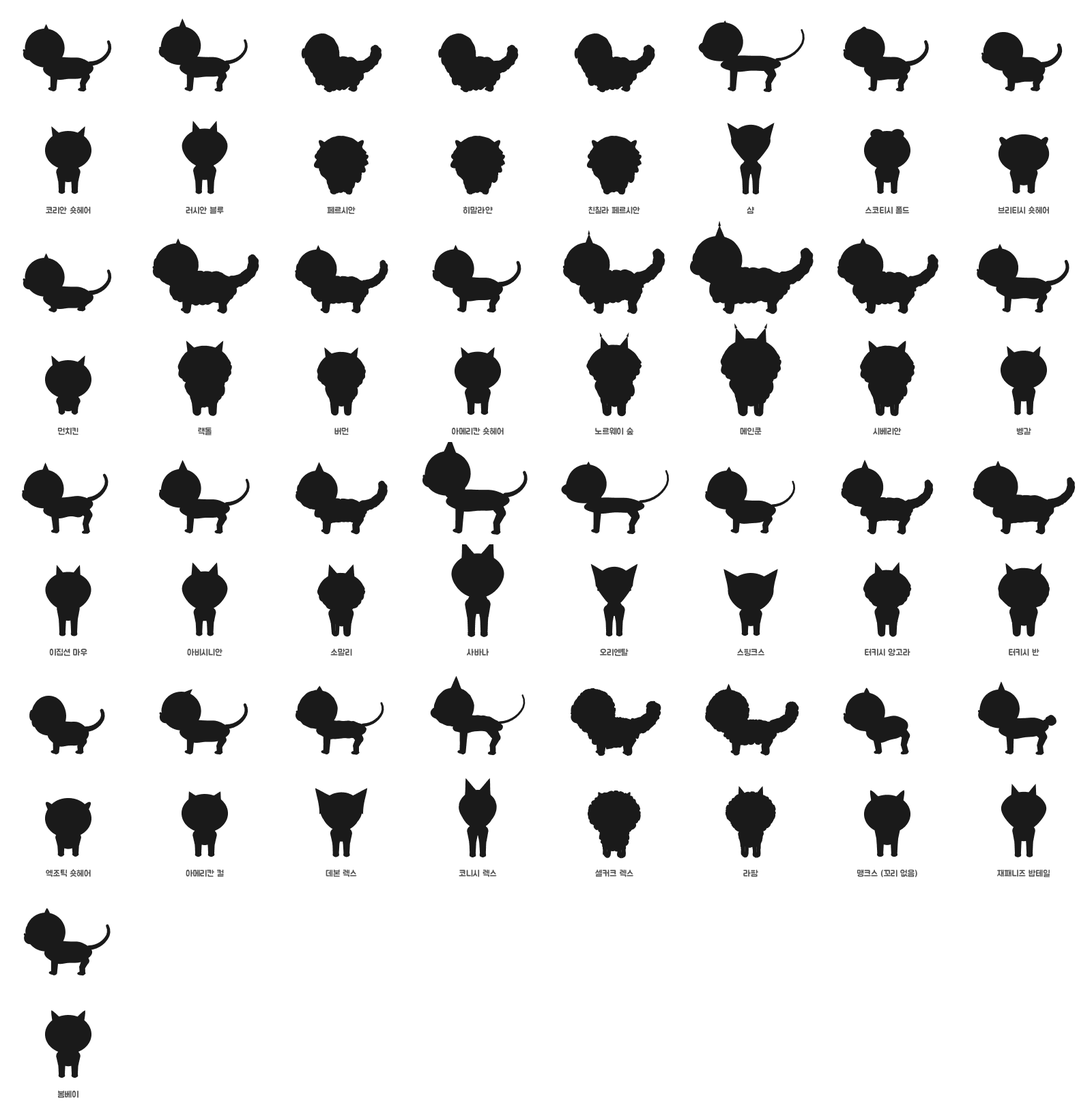
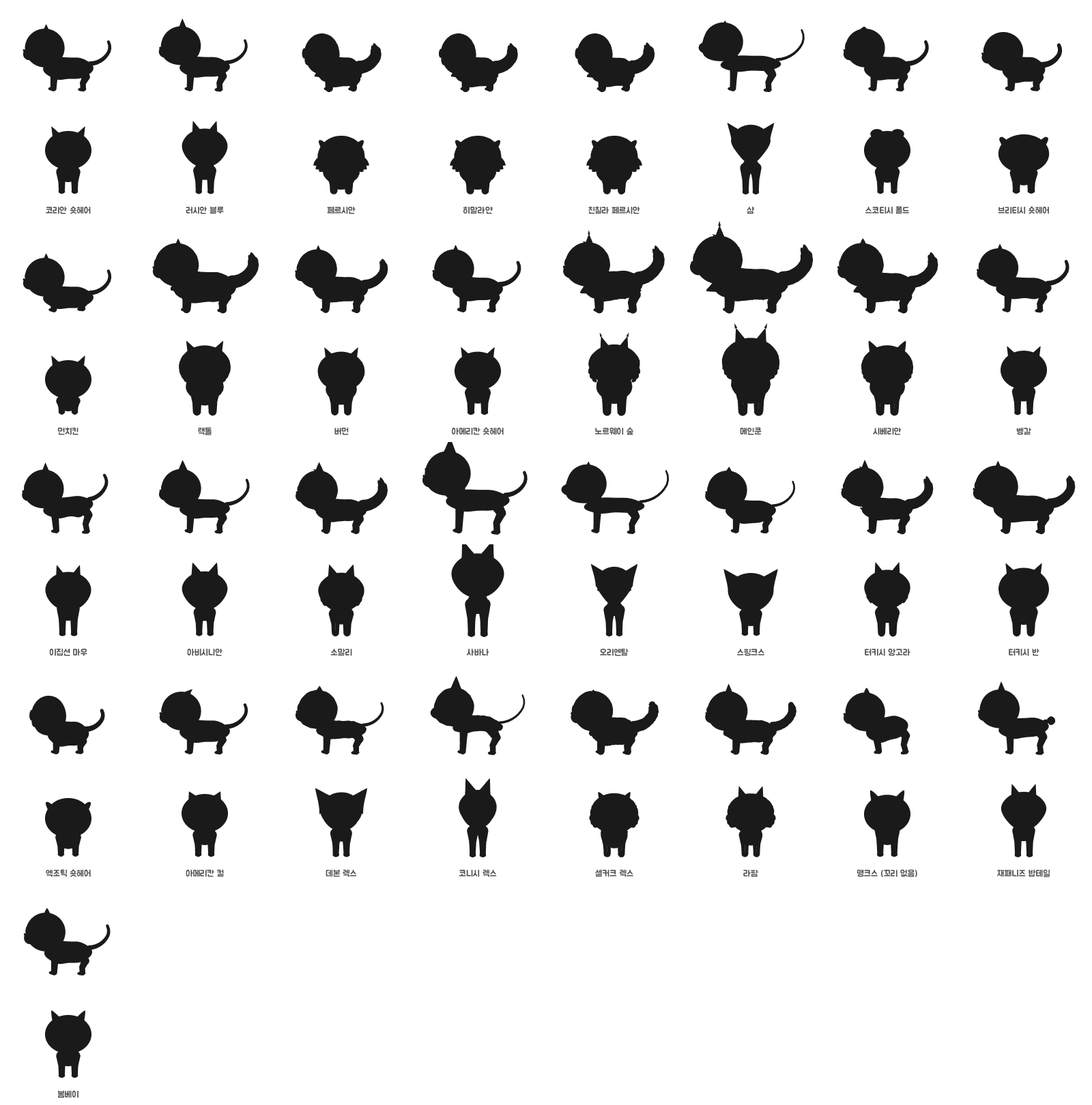
Cat catalog: cat-like long/curly fur and per-breed eyes
Fur: keep the body silhouette smooth (fine combed strands / small curls as
texture) and add soft curved tuft pieces only where cats carry long hair:
scalloped chest bib, cheek flicks (faceFluff), belly fringe, thigh trousers,
feathered tail, pale ear furnishings; curly coats get hooked ringlets.
Eyes: eyeShape (round/oval/almond/lemon), eyeTilt, eyeLid (kept level so
slanted eyes don't frown), eyeLiner and eyeSpace per breed, with the breed eye
colour visible in the lower half. Docs and images updated.

Claude-Session: https://claude.ai/code/session_015vjHDFNeuhZBMk9pB9WgeS

diff --git a/cat-island/prototype/3d/catgen.js b/cat-island/prototype/3d/catgen.js
@@ -156,14 +156,12 @@ const MAT_SKIN = new THREE.MeshStandardMaterial({ vertexColors: true, roughness:
 const MAT_GLOSS = new THREE.MeshStandardMaterial({ vertexColors: true, roughness: .35, metalness: 0 });
 
 // fur: {type:'short'|'long'|'curly'|'rex'|'none', amount}
-// opts.weight(v, n) -> 0..1   where long tufts / curls grow on this mesh (ruff, cheeks, belly, thigh backs ...)
-// opts.gravity               long tufts hang down a little (off for parts that rotate, like the tail)
-// Long and curly fur also store a per-vertex 'fluff' (0 gap .. 1 tuft tip) that the paint pass uses to
-// shade clumps: tips lighter, gaps darker, so the fur reads at toy scale.
+// opts.weight(v, n) -> 0..1   how much fur texture this area gets
+// Long and curly fur also store a per-vertex 'fluff' (0 dark .. 1 light) that the paint pass uses to
+// shade strands and curls so the coat has a fur feel without lumps.
 function furify(geo, fur, k = 0, opts = {}) {
   const pos = geo.attributes.position, v = new THREE.Vector3(), n = new THREE.Vector3();
-  const weight = opts.weight || (() => 1), gravity = opts.gravity ?? true;
-  const fq = opts.freq || 1, st = opts.stretch ?? 1.45;   // tuft size (higher = smaller) and vertical comb stretch
+  const weight = opts.weight || (() => 1);
   geo.computeVertexNormals();
   const nor = geo.attributes.normal;
   const tufted = fur.type === 'long' || fur.type === 'curly';
@@ -172,18 +170,17 @@ function furify(geo, fur, k = 0, opts = {}) {
     v.fromBufferAttribute(pos, i); n.fromBufferAttribute(nor, i);
     let off = 0;
     if (fur.type === 'long') {
-      // pointed clumps; cells are stretched vertically so tufts look combed downwards
-      const [d, d2] = worley2(v.x * 4.6 * fq + k, v.y * 4.6 * fq / st, v.z * 4.6 * fq);
-      const t = sstep(.85, .05, d) * sstep(0, .22, d2 - d), wgt = weight(v, n);   // soft cone, parted between clumps
-      off = fur.amount * wgt * (.03 + .08 * t);
-      fluff[i] = .25 + .75 * t * Math.min(1, wgt * 1.4);
-      if (gravity) v.y -= fur.amount * wgt * .04 * t * sstep(.4, -.6, n.y);
+      // fine combed strands: a smooth silhouette (cats read as cats by their outline), streaks for texture.
+      // The long-hair *shape* comes from the tuft pieces added in addTufts().
+      const t = vnoise(v.x * 9 + k, v.y * 26, v.z * 9), wgt = weight(v, n);
+      off = fur.amount * wgt * (.008 + .012 * t);
+      fluff[i] = .55 + .45 * t;
     } else if (fur.type === 'curly') {
-      // round puffs (AC sheep wool): sqrt profile gives a cauliflower outline
-      const [d, d2] = worley2(v.x * 7 + k, v.y * 7, v.z * 7);
-      const t = Math.sqrt(Math.max(0, 1 - d * d / .75)) * sstep(0, .3, d2 - d), wgt = weight(v, n);
-      off = fur.amount * wgt * (.035 + .085 * t);
-      fluff[i] = .35 + .65 * t;
+      // small tight curls as surface texture; the visible ringlets are hooked tufts (addTufts)
+      const [d, d2] = worley2(v.x * 17 + k, v.y * 17, v.z * 17);
+      const t = Math.sqrt(Math.max(0, 1 - d * d / .75)) * sstep(0, .25, d2 - d), wgt = weight(v, n);
+      off = fur.amount * wgt * (.01 + .02 * t);
+      fluff[i] = .5 + .5 * t;
     }
     else if (fur.type === 'rex') off = fur.amount * .008 * Math.sin(v.z * 30 + v.y * 14 + 6 * vnoise(v.x * 5 + k, v.y * 5, v.z * 5)) * (.4 + .6 * vnoise(v.x * 9, v.y * 9 + k, v.z * 9));   // soft broken waves, not rings
     v.addScaledVector(n, off);
@@ -207,6 +204,40 @@ function capsuleY(r0, r1, len, seg = 28) {
   for (let i = 0; i <= N; i++) { const a = Math.PI / 2 * i / N; pts.push(new THREE.Vector2(r0 * Math.cos(a), r0 * Math.sin(a))); }
   return new THREE.LatheGeometry(pts, seg);
 }
+// A single stylised fur tuft: a soft cone along +y that bends towards +z (bend) and, for curly coats,
+// hooks over into a ringlet (curl). 'fluff' runs 0 at the root to 1 at the tip (tip painted lighter).
+function tuftGeo(len, r0, bend = .3, curl = 0) {
+  const prof = [];
+  for (let i = 0; i <= 12; i++) {
+    const t = i / 12, r = r0 * Math.pow(1 - t, .55) * (1 + .3 * Math.sin(Math.PI * t * .8)) * Math.sqrt(Math.min(1, (1 - t) * 6));   // plump, soft tip
+    prof.push(new THREE.Vector2(Math.max(1e-4, r), t * len));
+  }
+  const g = new THREE.LatheGeometry(prof, 14);
+  const pos = g.attributes.position, fl = new Float32Array(pos.count);
+  for (let i = 0; i < pos.count; i++) {
+    let x = pos.getX(i), y = pos.getY(i), z = pos.getZ(i);
+    const t = y / len;
+    z += bend * len * t * t;                                  // gentle sweep
+    if (curl) {                                               // ringlet: roll the outer half around x
+      const a = curl * sstep(.35, 1, t), cy = len * .45, cz = bend * len * .2 + len * .18;
+      const yy = y - cy, zz = z - cz;
+      y = cy + yy * Math.cos(a) - zz * Math.sin(a); z = cz + yy * Math.sin(a) + zz * Math.cos(a);
+    }
+    pos.setXYZ(i, x, y, z); fl[i] = .5 + .5 * t;
+  }
+  g.setAttribute('fluff', new THREE.BufferAttribute(fl, 1));
+  g.computeVertexNormals();
+  return g;
+}
+// put a tuft at `at` (parent space) growing along `dir`, sweeping towards `toward`
+function placeTuft(parent, geo, at, dir, toward, part, info, mat) {
+  const Y = dir.clone().normalize(), Z = toward.clone().addScaledVector(Y, -toward.dot(Y)).normalize(), X = new THREE.Vector3().crossVectors(Y, Z);
+  const m = mk(geo, part, info, mat);
+  m.matrix.makeBasis(X, Y, Z).setPosition(at); m.matrixAutoUpdate = false;
+  parent.add(m);
+  return m;
+}
+
 function mk(geo, part, info, mat = MAT) {
   const m = new THREE.Mesh(geo, mat);
   m.castShadow = m.receiveShadow = true;
@@ -218,7 +249,7 @@ function mk(geo, part, info, mat = MAT) {
 export const SHAPE_DEFAULT = {
   size: 1, headSize: 1.5, headW: 1.08, faceFlat: 0, cheek: 0, muzzleLen: 1,
   ear: 'upright', earSize: 1, earTuft: 0,
-  eyeSize: 1, eyeShape: 'round',
+  eyeSize: 1, eyeShape: 'round', eyeTilt: 0, eyeLid: 0, eyeLiner: 0, eyeSpace: 1,
   bodyLen: 1, bodyBulk: 1, legLen: 1, legBulk: 1,
   fur: 'short', furAmount: 1, ruff: 0,
   faceFluff: .55,    // long fur on the cheeks/chin: Persian types 1.2, semi-longhairs (Maine Coon ...) keep a short face
@@ -282,14 +313,12 @@ export function buildCat(shapeIn, coatSpec) {
       pos.setXYZ(i, xx, yy, z * .9 * BL);
     }
     g.computeVertexNormals();
-    // long fur: light on the back, heavy on the chest and belly fringe
-    const wBody = (v, n) => .45 + .55 * sstep(.1, -.7, n.y) + .35 * sstep(.2, .8, v.z / (.9 * BL));
-    if (!hairless) furify(g, fur, 1, { weight: wBody });
+    if (!hairless) furify(g, fur, 1);
     body.add(mk(g, 'body', 'bodyNorm', bodyMat));
   }
   if (s.ruff) {
     const g = ellipsoid(1, .4 * B * fluffy, .36, .3, 96); g.translate(0, .1, .6 * BL);
-    furify(g, { type: 'long', amount: 1.5 * s.ruff }, 9, { weight: (v, n) => .55 + .45 * sstep(-.2, .8, n.z) });
+    furify(g, { type: s.fur === 'curly' ? 'curly' : 'long', amount: s.ruff }, 9);
     body.add(mk(g, 'body', 'bodyNorm'));
   }
 
@@ -310,9 +339,7 @@ export function buildCat(shapeIn, coatSpec) {
       const j = new THREE.Group(); parent.add(j);
       const g = capsuleY(r0 * thick, r1 * thick, len);
       const t0 = acc / total, t1 = (acc + len) / total;
-      const pants = kind === 'hind' && acc === 0;
-      if (!hairless) furify(g, { ...fur, amount: fur.amount * (s.fur === 'curly' ? .7 : .5) }, side + acc,
-        { weight: pants ? (v, n) => .4 + 1.2 * sstep(.1, -.8, n.z) * sstep(-len, -len * .2, v.y) : () => .55 });
+      if (!hairless) furify(g, { ...fur, amount: fur.amount * .6 }, side + acc);
       j.add(mk(g, 'leg', { kind, t0, t1, len }, bodyMat));
       chain.push(j);
       const next = new THREE.Group(); next.position.y = -len; j.add(next);
@@ -330,7 +357,7 @@ export function buildCat(shapeIn, coatSpec) {
   if (tailN) {
     let parent = new THREE.Group(); parent.position.set(0, .16, -.78 * BL); body.add(parent);
     const segLen = (s.tail === 'bob' ? .06 : .1) * s.tailLen;
-    const plume = s.tailFluff ? 1 + s.tailFluff * .9 : 1;
+    const plume = s.tailFluff ? 1 + s.tailFluff * (s.fur === 'long' ? 1.2 : .9) : 1;
     for (let i = 0; i < tailN; i++) {
       const j = new THREE.Group(); parent.add(j);
       const rad = k => (plume > 1 ? .068 * plume * (1 - .22 * k) * (k > .85 ? Math.sqrt(Math.max(.15, 1 - ((k - .85) / .2) ** 2)) : 1) : .068 - .026 * k) * (s.fur === 'curly' ? 1.2 : 1);
@@ -338,7 +365,7 @@ export function buildCat(shapeIn, coatSpec) {
       const g = capsuleY(r0, r1, segLen, 24);
       g.rotateX(Math.PI);                    // grow backwards/upwards along +y of the joint
       if (s.fur === 'curly') furify(g, { type: 'curly', amount: .9 }, i * 3);
-      else if (s.fur === 'long') furify(g, { type: 'long', amount: .45 * s.furAmount }, i * 3, { gravity: false, freq: 1.3 });
+      else if (s.fur === 'long') furify(g, { type: 'long', amount: s.furAmount }, i * 3);
       j.add(mk(g, 'tail', { t0: i / tailN, t1: (i + 1) / tailN, len: segLen }, bodyMat));
       const next = new THREE.Group(); next.position.y = segLen; j.add(next);
       rig.tail.push(j); parent = next;
@@ -353,7 +380,7 @@ export function buildCat(shapeIn, coatSpec) {
   const neck = new THREE.Group(); neck.position.set(0, .2, .62 * BL); body.add(neck); rig.neck = neck;
   {
     const g = ellipsoid(1, .25 * B * fluffy * (1 - (s.neckLen - 1) * .3), .27 * B * fluffy * s.neckLen, .28, 64); g.translate(0, .1 * s.neckLen, .06);
-    if (!hairless) furify(g, fur, 5, { weight: (v, n) => .5 + .5 * sstep(0, .8, n.z) });
+    if (!hairless) furify(g, fur, 5);
     neck.add(mk(g, 'body', 'bodyNorm', bodyMat));
   }
   const head = new THREE.Group(); head.position.set(0, .26 * s.headSize + (s.neckLen - 1) * .3, .16 * s.headSize + (s.neckLen - 1) * .12); neck.add(head); rig.head = head;
@@ -377,13 +404,9 @@ export function buildCat(shapeIn, coatSpec) {
       }
       g.computeVertexNormals();
     }
-    // long: lion-like cheek and chin fluff, the face itself stays clean (AC faces are smooth)
-    // curly: puffs everywhere except the front of the face
-    const wHead = s.fur === 'curly'
-      ? (v, n) => 1 - .8 * sstep(.25, .8, n.z)
-      : (v, n) => .15 + 1.5 * sstep(.25, .8, Math.abs(n.x)) * sstep(.6, -.3, n.y) * (1 - .75 * sstep(.45, .9, n.z)) + .6 * sstep(-.3, -.9, n.y);
-    // head tufts point sideways (no drop, no vertical comb), otherwise they hang like mop strands
-    if (!hairless) furify(g, { ...fur, amount: fur.amount * (s.fur === 'long' ? s.faceFluff * .8 : .8) }, 11, { weight: wHead, gravity: false, stretch: 1, freq: 1.25 });
+    // fur texture stays off the front of the face (AC faces are smooth); cheek tufts come from addTufts()
+    const wHead = (v, n) => 1 - .85 * sstep(.25, .8, n.z);
+    if (!hairless) furify(g, { ...fur, amount: fur.amount * .8 }, 11, { weight: wHead });
     head.add(mk(g, 'head', 'headDir', bodyMat));
     if (s.cheek) for (const x of [-1, 1]) {
       const c = ellipsoid(HS * .38, 1, .8, .85, 48); c.translate(x * HS * .5 * s.headW, -HS * .3, HS * (.36 - .06 * s.faceFlat));   // cheeks follow the flattened face
@@ -391,6 +414,7 @@ export function buildCat(shapeIn, coatSpec) {
     }
   }
   // ears
+  const earGroups = [];
   for (const x of [-1, 1]) {
     const es = Math.pow(s.earSize, .65) * HS / .42 * .82 * (s.ear === 'large' ? 1.15 : 1);
     // one cone per ear (base sunk into the skull); the pink inner ear is painted on its front face
@@ -417,6 +441,7 @@ export function buildCat(shapeIn, coatSpec) {
       const t = new THREE.ConeGeometry(.022 * es, .09 * es, 8); t.translate(0, .3 * es, 0);
       ear.add(mk(t, 'tuft', null));
     }
+    ear.userData.x = x; ear.userData.es = es; earGroups.push(ear);
     head.add(ear);
   }
   // muzzle, nose, eyes, blush, whisker pads
@@ -433,28 +458,90 @@ export function buildCat(shapeIn, coatSpec) {
       m.rotateZ(Math.PI); m.translate(x * HS * .055, -HS * .2 + flat * HS * .1, HS * (.93 - flat * .14));
       head.add(mk(m, 'mouth', null, MAT_GLOSS));
     }
+    // eyes: the same glossy AC eye everywhere, but each breed sets its shape and expression
+    //   eyeShape  round (Persian, British) | oval (Maine Coon, Ragdoll) | almond (Siamese, Abyssinian) | lemon (Sphynx)
+    //   eyeTilt   outer corner raised (radians)        eyeLid   upper lid in coat colour -> hooded / calm look
+    //   eyeLiner  dark rim (chinchilla, Mau, Abyssinian) eyeSpace wide-set (Persian) .. close-set (Siamese)
+    const [sx, sy, sharp] = { round: [.84, 1.04, 0], oval: [.9, .86, .08], almond: [1, .72, .32], lemon: [1.04, .76, .48] }[s.eyeShape] || [.84, 1.04, 0];
+    const sz = .42;
     for (const x of [-1, 1]) {
-      // big, round, glossy dark eyes; the breed's eye colour only glows softly at the bottom
-      const er = HS * .2 * s.eyeSize;
-      const furPush = s.fur === 'curly' ? .07 : s.fur === 'long' ? .045 : 0;      // keep eyes in front of fluffy fur
-      const ex = x * HS * .37, ey = HS * .02, ez = HS * (.84 - flat * .05 + furPush);
-      const sx = s.eyeShape === 'almond' ? .9 : .82, sy = 1.04, sz = .42;
-      const ig = ellipsoid(er, sx, sy, sz, 48);
-      ig.translate(ex, ey, ez);
-      head.add(mk(ig, 'eye', { cy: ey, er }, MAT_GLOSS));
-      // highlights: flat discs lying on the eye surface, same light direction (upper-left) for both eyes
-      for (const [dx, dy, rr] of [[-.3, .36, .3], [.3, -.36, .12]]) {
-        const hx = dx * er, hy = dy * er;
-        const k = 1 - (hx / (er * sx)) ** 2 - (hy / (er * sy)) ** 2;
-        const hz = ez + er * sz * Math.sqrt(Math.max(0, k)) + er * .015;
-        const disc = new THREE.Mesh(new THREE.CircleGeometry(er * rr, 24), new THREE.MeshBasicMaterial({ color: '#ffffff' }));
-        disc.position.set(ex + hx, ey + hy, hz);
-        disc.lookAt(ex + hx * 1.6, ey + hy * 1.6, hz + er);                    // follow the eye's curvature
-        head.add(disc);
+      const er = HS * .2 * s.eyeSize * (1 + .55 * (1.04 - sy));   // narrow eyes get wider/taller overall: same cuteness, different shape
+      const furPush = s.fur === 'curly' ? .03 : s.fur === 'long' ? .02 : 0;      // keep eyes in front of the fur texture
+      const ex = x * HS * .37 * s.eyeSpace, ey = HS * .02, ez = HS * (.84 - flat * .05 + furPush);
+      const eye = new THREE.Group(); eye.position.set(ex, ey, ez); eye.rotation.z = x * s.eyeTilt; head.add(eye);
+      const pinch = g => {                    // almond / lemon: pinch the inner and outer corners
+        const q = g.attributes.position;
+        for (let i = 0; i < q.count; i++) { const u = q.getX(i) / (er * sx * 1.1); q.setY(i, q.getY(i) * (1 - sharp * u * u)); }
+        g.computeVertexNormals(); return g;
+      };
+      eye.add(mk(pinch(ellipsoid(er, sx, sy, sz, 48)), 'eye', { cy: 0, er: er * sy }, MAT_GLOSS));
+      // upper lid: a cap of the eye shape in coat colour, cut by a straight lid line
+      const lidY = 1 - 2 * s.eyeLid;
+      if (s.eyeLid > 0) {
+        const lg = new THREE.SphereGeometry(er * 1.06, 40, 18, 0, Math.PI * 2, 0, Math.acos(lidY));
+        lg.scale(sx, sy, sz * 1.3); pinch(lg);
+        // keep the lid line level (inner end a touch higher) even on a slanted eye; a lid that follows the
+        // slant drops at the inner corner and reads as a frown
+        lg.rotateZ(-x * s.eyeTilt * 1.3);
+        eye.add(mk(lg, 'head', 'headDir', bodyMat));
+      }
+      if (s.eyeLiner) {
+        const lr = new THREE.TorusGeometry(er, er * .085, 8, 64); lr.scale(sx * 1.03, sy * 1.03, .6);
+        eye.add(mk(pinch(lr), 'liner', null, MAT_GLOSS));
+      }
+      // highlights: flat discs on the eye surface; same light direction (upper-left) for both eyes,
+      // so the offsets are given in head space and rotated into the tilted eye; kept below the lid
+      const cs = Math.cos(-x * s.eyeTilt), sn = Math.sin(-x * s.eyeTilt), hsz = Math.min(1, sy + .1);
+      for (const [dx, dy, rr] of [[-.3, .34, .3], [.3, -.34, .12]]) {
+        let hx = (dx * cs - dy * sn) * er * sx, hy = (dx * sn + dy * cs) * er * sy;
+        hy = Math.min(hy, (lidY * sy - .26) * er);
+        const y0 = hy / (1 - sharp * (hx / (er * sx * 1.1)) ** 2);
+        const k = 1 - (hx / (er * sx)) ** 2 - (y0 / (er * sy)) ** 2;
+        const hz = er * sz * Math.sqrt(Math.max(0, k)) + er * .015;
+        const disc = new THREE.Mesh(new THREE.CircleGeometry(er * rr * hsz, 24), new THREE.MeshBasicMaterial({ color: '#ffffff' }));
+        disc.position.set(hx, hy, hz);
+        disc.quaternion.setFromUnitVectors(new THREE.Vector3(0, 0, 1), new THREE.Vector3(hx / sx ** 2, y0 / sy ** 2, hz / sz ** 2).normalize());
+        eye.add(disc);
       }
       const bl = new THREE.Mesh(new THREE.SphereGeometry(HS * .13, 16, 12), new THREE.MeshStandardMaterial({ color: '#f7a3b6', roughness: 1, transparent: true, opacity: .6 }));
       bl.scale.set(1.35, .55, .3); bl.position.set(x * HS * .62, -HS * .2, HS * .72); head.add(bl);
     }
+  }
+
+  // ---------- long / curly fur: tufts where cats actually carry long hair
+  // (cartoon cats are drawn the same way: a zigzag chest bib, cheek flicks, trousers, a plumed tail)
+  if (s.fur === 'long' || s.fur === 'curly') {
+    const curly = s.fur === 'curly', amt = curly ? .8 : s.furAmount;
+    const ruff = Math.max(s.ruff, curly ? .7 : .4) * amt;
+    const curl = curly ? 2.6 : 0, V = (x, y, z) => new THREE.Vector3(x, y, z);
+    const T = (len, r, bend = .3) => tuftGeo(len, r, bend, curl);
+    // chest bib: a row of tufts hanging from the front of the collar, longest in the middle
+    // (wide, overlapping, lying on the collar: a scalloped bib, not a row of spikes)
+    for (let j = -2; j <= 2; j++) {
+      const f = j / 2, len = (.22 - .06 * Math.abs(f)) * ruff;
+      placeTuft(body, T(len, .12, .6), V(f * .19 * B * fluffy, .02 - .04 * Math.abs(f), .78 * BL + .04 * (1 - Math.abs(f))),
+        V(f * .45, -1, .55), V(0, 0, 1), 'body', 'bodyNorm', bodyMat);
+    }
+    // belly fringe and 'trousers' on the back of the thighs
+    for (const x of [-1, 1]) {
+      for (const z of [-.25, .02, .28]) placeTuft(body, T(.14 * amt, .07, .3), V(x * .15 * B * fluffy, -.2 * B * fluffy, z * BL), V(x * .25, -1, -.2), V(0, 0, -1), 'body', 'bodyNorm', bodyMat);
+      const thigh = rig.legs[x < 0 ? 'hindL' : 'hindR'].chain[0];
+      for (const [y, k] of [[-.35, 1], [-.65, .8]]) placeTuft(thigh, T(.17 * amt * k, .075, .35), V(x * .03, hTh * y, -.09), V(x * .2, -.5, -1), V(0, -1, 0), 'body', 'bodyNorm', bodyMat);
+    }
+    // cheek flicks: three per side from the lower cheek, pointing out and down
+    const ff = (curly ? .9 : s.faceFluff) * amt;
+    for (const x of [-1, 1]) for (const [dy, dz, k] of [[-.18, .42, 1], [-.42, .32, .85], [-.64, .2, .65]]) {
+      const d = V(x * .88, dy, dz).normalize();
+      const at = V(d.x * HS * s.headW, d.y * HS * .9, d.z * HS * .9).multiplyScalar(.93);
+      placeTuft(head, T(HS * .4 * ff * k, HS * .17, .25), at, V(x, -.35 - .5 * (1 - k), .15), V(0, -1, 0), 'head', 'headDir', bodyMat);
+    }
+    // feathered tail: tufts on both sides of the outer tail segments
+    for (let i = 3; i < rig.tail.length; i++) for (const x of [-1, 1]) {
+      const k = (i - 2) / (rig.tail.length - 2);
+      placeTuft(rig.tail[i], T((.1 + .1 * k) * Math.max(.6, s.tailFluff), .075, .5), V(x * .04, .05, 0), V(x, .7, .1), V(0, 1, 0), 'tail', { t0: (i + .5) / rig.tail.length, t1: (i + .5) / rig.tail.length, len: 0 }, bodyMat);
+    }
+    // ear furnishings: pale wisps from the inner ear
+    if (!curly && s.ear !== 'fold') for (const ear of earGroups) placeTuft(ear, tuftGeo(.13 * ear.userData.es, .025 * ear.userData.es, .4, 0), V(0, .02, .03), V(-ear.userData.x * .25, 1, .55), V(0, 0, 1), 'furnish', null);
   }
 
   // ---------- paint every mesh in rest pose, using root-space positions
@@ -464,7 +551,7 @@ export function buildCat(shapeIn, coatSpec) {
   const v = new THREE.Vector3(), w = new THREE.Vector3();
   root.traverse(o => {
     if (!o.isMesh || !o.userData.part) return;
-    const part = o.userData.part === 'tuft' ? 'ear' : o.userData.part;
+    const part = ['tuft', 'furnish', 'liner'].includes(o.userData.part) ? 'ear' : o.userData.part;
     const pos = o.geometry.attributes.position, col = new Float32Array(pos.count * 3);
     const fl = o.geometry.attributes.fluff;
     const m = new THREE.Matrix4().multiplyMatrices(inv, o.matrixWorld);
@@ -474,6 +561,8 @@ export function buildCat(shapeIn, coatSpec) {
       const p = w.copy(v).applyMatrix4(m).clone();
       let info = o.userData.info, c;
       if (o.userData.part === 'tuft') c = colorAt('ear', p, { dir: new THREE.Vector3(0, 1, 0) }).multiplyScalar(.55);
+      else if (o.userData.part === 'furnish') c = C('#f5efe4');
+      else if (o.userData.part === 'liner') c = C('#2b2220');
       else if (o.userData.part === 'mouth') c = C('#3a2a24');
       else if (info && info.ear) {
         const y = (v.y - info.y0) / info.h, rr = Math.max(1e-4, info.r * (1 - y));
@@ -483,7 +572,7 @@ export function buildCat(shapeIn, coatSpec) {
       }
       else if (o.userData.part === 'eye') {
         const t = (v.y - info.cy) / info.er;
-        c = C('#271c18').lerp(colorAt('eye'), .5 * sstep(-.15, -.95, t));
+        c = C('#271c18').lerp(colorAt('eye'), .72 * sstep(.1, -.85, t));   // breed eye colour fills the lower half
       } else {
         if (info === 'bodyNorm') info = bodyNorm(p);
         else if (info === 'headDir') info = { dir: v.clone().applyMatrix4(mh).normalize() };
@@ -551,39 +640,39 @@ export function setPose(cat, mode = 'walk', phase = 0) {
 // ------------------------------------------------------------------ catalogue
 const SH = (o) => o;
 export const BREEDS = [
-  { id: 'korean_shorthair', ko: '코리안 숏헤어', shape: { earSet: 'mid' }, coat: { pattern: 'mackerel', base: '#a39d93', dark: '#57514a' } },
-  { id: 'russian_blue', ko: '러시안 블루', shape: { eyeShape: 'almond', earSize: 1.12, bodyBulk: .92, legLen: 1.08, wedge: .35, earSet: 'high', neckLen: 1.1, tailThick: .85 }, coat: { pattern: 'solid', base: '#8794a3', eye: '#5fae6a', lightMuzzle: false, nose: '#7d8794' } },
-  { id: 'persian', ko: '페르시안', shape: { faceFlat: 1, ear: 'small', fur: 'long', ruff: 1, tailFluff: 1, cheek: 1, eyeSize: 1.15, legLen: .78, bodyBulk: 1.15, earSet: 'low', earRound: .8, bodyLen: .82, neckLen: .75, tailThick: 1.2, tailLen: .85 , faceFluff: 1.2 }, coat: { pattern: 'solid', base: '#f4efe6', eye: '#d7902f' } },
-  { id: 'himalayan', ko: '히말라얀', shape: { faceFlat: 1, ear: 'small', fur: 'long', ruff: 1, tailFluff: 1, cheek: 1, legLen: .78, bodyBulk: 1.15, earSet: 'low', earRound: .8, bodyLen: .82, neckLen: .75, tailThick: 1.2, tailLen: .85 , faceFluff: 1.2 }, coat: { pattern: 'point', base: '#f2e8d8', point: '#6b4f40', eye: '#4f8fd8' } },
-  { id: 'chinchilla_persian', ko: '친칠라 페르시안', shape: { faceFlat: 1, ear: 'small', fur: 'long', ruff: 1.1, tailFluff: 1.1, cheek: 1, eyeSize: 1.18, legLen: .78, bodyBulk: 1.12, earSet: 'low', earRound: .8, bodyLen: .82, neckLen: .75, tailThick: 1.2, tailLen: .85, faceFluff: 1.2 }, coat: { pattern: 'shaded', base: '#f7f5f0', white: '#f8f6f2', dark: '#55565e', eye: '#3fae6a', nose: '#e0857f' } },
-  { id: 'siamese', ko: '샴', shape: { ear: 'large', earSize: 1.2, eyeShape: 'almond', bodyBulk: .78, legLen: 1.25, headW: .95, muzzleLen: 1.2, tailLen: 1.35, wedge: 1, earSet: 'low', earWide: 1.05, bodyLen: 1.2, tailThick: .65, neckLen: 1.2, tuck: .4 }, coat: { pattern: 'point', base: '#f1e6d2', point: '#4f3a30', eye: '#5aa6e0' } },
-  { id: 'scottish_fold', ko: '스코티시 폴드', shape: { ear: 'fold', eyeSize: 1.2, cheek: .6, bodyBulk: 1.05, earRound: .5, bodyLen: .92, tailThick: 1.1 }, coat: { pattern: 'mackerel', base: '#a9adb6', dark: '#686c74' } },
-  { id: 'british_shorthair', ko: '브리티시 숏헤어', shape: { cheek: 1, ear: 'small', bodyBulk: 1.15, headW: 1.18, eyeSize: 1.12, legBulk: 1.15, earRound: 1, earSet: 'low', bodyLen: .85, legLen: .9, neckLen: .8, tailThick: 1.3, tailLen: .9, chest: 1.15 }, coat: { pattern: 'solid', base: '#8a92a0', eye: '#e19a2b', lightMuzzle: false } },
-  { id: 'munchkin', ko: '먼치킨', shape: { legLen: .5 }, coat: { pattern: 'classic', base: '#e8b878', dark: '#b4703a' } },
-  { id: 'ragdoll', ko: '랙돌', shape: { fur: 'long', furAmount: .8, ruff: .8, tailFluff: 1, eyeSize: 1.1, bodyBulk: 1.1, size: 1.1, bodyLen: 1.12, tailThick: 1.1 }, coat: { pattern: 'mitted', base: '#f3ece2', point: '#6b5a52', eye: '#4f8fd8' } },
-  { id: 'birman', ko: '버먼', shape: { fur: 'long', furAmount: .7, ruff: .6, tailFluff: .8, bodyLen: 1.05 }, coat: { pattern: 'mitted', base: '#efe3cc', point: '#4e3a2f', eye: '#4f8fd8' } },
-  { id: 'american_shorthair', ko: '아메리칸 숏헤어', shape: { cheek: .5, bodyBulk: 1.05, legBulk: 1.1, muzzleW: 1.2, chest: 1.1, tailThick: 1.1 }, coat: { pattern: 'classic', base: '#c9c9c4', dark: '#3d3d3d' } },
-  { id: 'norwegian_forest', ko: '노르웨이 숲', shape: { fur: 'long', ruff: 1, tailFluff: 1.2, earTuft: 1, earSize: 1.1, size: 1.12, headTri: 1, earSet: 'high', rumpHigh: .12 }, coat: { pattern: 'mackerel', base: '#b8a68e', dark: '#6e5b45', eye: '#9db24a', whiteLevel: .25 } },
-  { id: 'maine_coon', ko: '메인쿤', shape: { fur: 'long', ruff: 1.2, tailFluff: 1.2, earTuft: 1, earSize: 1.25, bodyLen: 1.2, size: 1.22, muzzleLen: 1.2, muzzleW: 1.35, earSet: 'high', chest: 1.1 }, coat: { pattern: 'classic', base: '#8a6a4f', dark: '#3e2d22', whiteLevel: .2 } },
-  { id: 'siberian', ko: '시베리안', shape: { fur: 'long', ruff: 1, tailFluff: 1, cheek: .5, size: 1.1, earRound: .3, chest: 1.1 }, coat: { pattern: 'mackerel', base: '#c9c4bb', dark: '#5d5850', eye: '#9db24a' } },
-  { id: 'bengal', ko: '벵갈', shape: { bodyBulk: .95, eyeShape: 'almond', legLen: 1.08, pouch: .5, bodyLen: 1.1, chest: 1.1, tailThick: 1.1 }, coat: { pattern: 'spotted', base: '#d9a95c', dark: '#4a3322', eye: '#7cae3d' } },
-  { id: 'egyptian_mau', ko: '이집션 마우', shape: { bodyBulk: .9, legLen: 1.1, eyeSize: 1.15, pouch: 1, rumpHigh: .2, wedge: .25, earSet: 'high' }, coat: { pattern: 'spotted', base: '#d4d1c8', dark: '#3c3a36', eye: '#9cc04a', seed: 4 } },
-  { id: 'abyssinian', ko: '아비시니안', shape: { earSize: 1.3, eyeShape: 'almond', bodyBulk: .86, legLen: 1.1, wedge: .4, earSet: 'high', earWide: 1.1, tailLen: 1.1, tailThick: .85 }, coat: { pattern: 'ticked', base: '#c98a52', dark: '#7a4a28', eye: '#b8a03a' } },
-  { id: 'somali', ko: '소말리', shape: { earSize: 1.25, fur: 'long', furAmount: .6, tailFluff: 1.2, bodyBulk: .9, wedge: .35, earSet: 'high', earWide: 1.1 }, coat: { pattern: 'ticked', base: '#c47a45', dark: '#7a4a28', eye: '#b8a03a' } },
-  { id: 'savannah', ko: '사바나', shape: { ear: 'large', earSize: 1.45, legLen: 1.35, bodyBulk: .85, bodyLen: 1.1, size: 1.15, tailLen: .9, neckLen: 1.3, earSet: 'high', wedge: .3, tailThick: .9 }, coat: { pattern: 'spotted', base: '#d8b46f', dark: '#2c241c', eye: '#c9a227', seed: 7 } },
-  { id: 'oriental', ko: '오리엔탈', shape: { ear: 'large', earSize: 1.35, bodyBulk: .78, legLen: 1.25, headW: .9, muzzleLen: 1.3, eyeShape: 'almond', tailLen: 1.4, wedge: 1, earSet: 'low', earWide: 1.05, bodyLen: 1.2, tailThick: .6, neckLen: 1.2, tuck: .45 }, coat: { pattern: 'solid', base: '#3a3432', eye: '#7cae3d', lightMuzzle: false } },
-  { id: 'sphynx', ko: '스핑크스', shape: { ear: 'large', earSize: 1.55, fur: 'none', wrinkles: 1, bodyBulk: .9, eyeShape: 'almond', tailLen: 1.1, potBelly: 1, earSet: 'low', earWide: 1.15, wedge: .3, tailThick: .6, chest: 1.1 }, coat: { pattern: 'calico', base: '#efc4b6', second: '#b5a2a4', white: '#f6d6cc', whiteLevel: 0, eye: '#9cb84a', innerEar: '#eba8a0', seed: 3 } },
-  { id: 'turkish_angora', ko: '터키시 앙고라', shape: { fur: 'long', furAmount: .6, tailFluff: 1.2, earSize: 1.15, bodyBulk: .88, legLen: 1.08, wedge: .35, earSet: 'high', neckLen: 1.15, tailThick: .9 }, coat: { pattern: 'solid', base: '#fbf8f2', eye: '#7fb6ea' } },
-  { id: 'turkish_van', ko: '터키시 반', shape: { fur: 'long', furAmount: .4, tailFluff: .8, size: 1.08, bodyLen: 1.1, chest: 1.1 }, coat: { pattern: 'van', base: '#d9853c' } },
-  { id: 'exotic_shorthair', ko: '엑조틱 숏헤어', shape: { faceFlat: 1, ear: 'small', cheek: 1, eyeSize: 1.2, bodyBulk: 1.12, legLen: .85, earSet: 'low', earRound: .8, bodyLen: .82, neckLen: .75, tailThick: 1.2, tailLen: .85 }, coat: { pattern: 'classic', base: '#e2a35e', dark: '#b06a2d', eye: '#d7902f' } },
-  { id: 'american_curl', ko: '아메리칸 컬', shape: { ear: 'curl', earSize: 1.15 }, coat: { pattern: 'bicolor', base: '#55504c' } },
-  { id: 'devon_rex', ko: '데본 렉스', shape: { ear: 'large', earSize: 1.6, eyeSize: 1.25, headW: 1.0, bodyBulk: .82, fur: 'rex', legLen: 1.1, earSet: 'low', earWide: 1.2, wedge: .4, tailThick: .7 }, coat: { pattern: 'solid', base: '#cdbfae', eye: '#9cb84a' } },
-  { id: 'cornish_rex', ko: '코니시 렉스', shape: { ear: 'large', earSize: 1.45, bodyBulk: .78, legLen: 1.25, fur: 'rex', headW: .9, muzzleLen: 1.2, tailLen: 1.25, backArch: 1, tuck: 1, wedge: .5, tailThick: .55, earSet: 'high', chest: 1.15 }, coat: { pattern: 'bicolor', base: '#7d6a62', whiteLevel: .5 } },
-  { id: 'selkirk_rex', ko: '셀커크 렉스', shape: { fur: 'curly', furAmount: 1.1, cheek: .8, bodyBulk: 1.1, ear: 'small', eyeSize: 1.15, tailFluff: .6, earRound: .5, bodyLen: .9, tailThick: 1.2 }, coat: { pattern: 'calico', base: '#3b3735', second: '#d98a43', whiteLevel: .5, seed: 6 } },
-  { id: 'laperm', ko: '라팜', shape: { fur: 'curly', furAmount: .8, earSize: 1.15, bodyBulk: .9, tailFluff: .5, wedge: .3, earSet: 'high' }, coat: { pattern: 'tortie', base: '#3a2e29', second: '#c4773a', seed: 2 } },
-  { id: 'manx', ko: '맹크스 (꼬리 없음)', shape: { tail: 'none', bodyBulk: 1.08, bodyLen: .85, legLen: 1.0, rumpHigh: .3, earRound: .4 }, coat: { pattern: 'mackerel', base: '#bfa486', dark: '#6e5640' } },
-  { id: 'japanese_bobtail', ko: '재패니즈 밥테일', shape: { tail: 'bob', earSize: 1.15, bodyBulk: .9, legLen: 1.15, headTri: 1, earSet: 'high', rumpHigh: .1 }, coat: { pattern: 'calico', base: '#2f2c2c', second: '#df8d3d', whiteLevel: .6, seed: 9 } },
-  { id: 'bombay', ko: '봄베이', shape: { eyeSize: 1.2, bodyBulk: 1.0, bodyLen: .95, earRound: .3, chest: 1.1 }, coat: { pattern: 'solid', base: '#232125', eye: '#d9a52c', lightMuzzle: false, nose: '#2d2a2e' } },
+  { id: 'korean_shorthair', ko: '코리안 숏헤어', shape: { earSet: 'mid', eyeShape: 'round', eyeTilt: .06 }, coat: { pattern: 'mackerel', base: '#a39d93', dark: '#57514a' } },
+  { id: 'russian_blue', ko: '러시안 블루', shape: { eyeShape: 'oval', earSize: 1.12, bodyBulk: .92, legLen: 1.08, wedge: .35, earSet: 'high', neckLen: 1.1, tailThick: .85, eyeTilt: .12, eyeSpace: 1.06 }, coat: { pattern: 'solid', base: '#8794a3', eye: '#5fae6a', lightMuzzle: false, nose: '#7d8794' } },
+  { id: 'persian', ko: '페르시안', shape: { faceFlat: 1, ear: 'small', fur: 'long', ruff: 1, tailFluff: 1, cheek: 1, eyeSize: 1.15, legLen: .78, bodyBulk: 1.15, earSet: 'low', earRound: .8, bodyLen: .82, neckLen: .75, tailThick: 1.2, tailLen: .85, faceFluff: 1.2, eyeShape: 'round', eyeSpace: 1.1 }, coat: { pattern: 'solid', base: '#f4efe6', eye: '#d7902f' } },
+  { id: 'himalayan', ko: '히말라얀', shape: { faceFlat: 1, ear: 'small', fur: 'long', ruff: 1, tailFluff: 1, cheek: 1, legLen: .78, bodyBulk: 1.15, earSet: 'low', earRound: .8, bodyLen: .82, neckLen: .75, tailThick: 1.2, tailLen: .85, faceFluff: 1.2, eyeShape: 'round', eyeSpace: 1.1 }, coat: { pattern: 'point', base: '#f2e8d8', point: '#6b4f40', eye: '#4f8fd8' } },
+  { id: 'chinchilla_persian', ko: '친칠라 페르시안', shape: { faceFlat: 1, ear: 'small', fur: 'long', ruff: 1.1, tailFluff: 1.1, cheek: 1, eyeSize: 1.18, legLen: .78, bodyBulk: 1.12, earSet: 'low', earRound: .8, bodyLen: .82, neckLen: .75, tailThick: 1.2, tailLen: .85, faceFluff: 1.2, eyeShape: 'round', eyeSpace: 1.1, eyeLiner: 1 }, coat: { pattern: 'shaded', base: '#f7f5f0', white: '#f8f6f2', dark: '#55565e', eye: '#3fae6a', nose: '#e0857f' } },
+  { id: 'siamese', ko: '샴', shape: { ear: 'large', earSize: 1.2, eyeShape: 'almond', bodyBulk: .78, legLen: 1.25, headW: .95, muzzleLen: 1.2, tailLen: 1.35, wedge: 1, earSet: 'low', earWide: 1.05, bodyLen: 1.2, tailThick: .65, neckLen: 1.2, tuck: .4, eyeTilt: .38, eyeSpace: .94, eyeLid: .08 }, coat: { pattern: 'point', base: '#f1e6d2', point: '#4f3a30', eye: '#5aa6e0' } },
+  { id: 'scottish_fold', ko: '스코티시 폴드', shape: { ear: 'fold', eyeSize: 1.2, cheek: .6, bodyBulk: 1.05, earRound: .5, bodyLen: .92, tailThick: 1.1, eyeShape: 'round' }, coat: { pattern: 'mackerel', base: '#a9adb6', dark: '#686c74' } },
+  { id: 'british_shorthair', ko: '브리티시 숏헤어', shape: { cheek: 1, ear: 'small', bodyBulk: 1.15, headW: 1.18, eyeSize: 1.12, legBulk: 1.15, earRound: 1, earSet: 'low', bodyLen: .85, legLen: .9, neckLen: .8, tailThick: 1.3, tailLen: .9, chest: 1.15, eyeShape: 'round', eyeSpace: 1.08 }, coat: { pattern: 'solid', base: '#8a92a0', eye: '#e19a2b', lightMuzzle: false } },
+  { id: 'munchkin', ko: '먼치킨', shape: { legLen: .5, eyeShape: 'oval', eyeTilt: .1 }, coat: { pattern: 'classic', base: '#e8b878', dark: '#b4703a' } },
+  { id: 'ragdoll', ko: '랙돌', shape: { fur: 'long', furAmount: .8, ruff: .8, tailFluff: 1, eyeSize: 1.1, bodyBulk: 1.1, size: 1.1, bodyLen: 1.12, tailThick: 1.1, eyeShape: 'oval', eyeTilt: .06 }, coat: { pattern: 'mitted', base: '#f3ece2', point: '#6b5a52', eye: '#4f8fd8' } },
+  { id: 'birman', ko: '버먼', shape: { fur: 'long', furAmount: .7, ruff: .6, tailFluff: .8, bodyLen: 1.05, eyeShape: 'round', eyeTilt: .04 }, coat: { pattern: 'mitted', base: '#efe3cc', point: '#4e3a2f', eye: '#4f8fd8' } },
+  { id: 'american_shorthair', ko: '아메리칸 숏헤어', shape: { cheek: .5, bodyBulk: 1.05, legBulk: 1.1, muzzleW: 1.2, chest: 1.1, tailThick: 1.1, eyeShape: 'oval', eyeTilt: .05, eyeLid: .1 }, coat: { pattern: 'classic', base: '#c9c9c4', dark: '#3d3d3d' } },
+  { id: 'norwegian_forest', ko: '노르웨이 숲', shape: { fur: 'long', ruff: 1, tailFluff: 1.2, earTuft: 1, earSize: 1.1, size: 1.12, headTri: 1, earSet: 'high', rumpHigh: .12, eyeShape: 'almond', eyeTilt: .22, eyeLid: .12 }, coat: { pattern: 'mackerel', base: '#b8a68e', dark: '#6e5b45', eye: '#9db24a', whiteLevel: .25 } },
+  { id: 'maine_coon', ko: '메인쿤', shape: { fur: 'long', ruff: 1.2, tailFluff: 1.2, earTuft: 1, earSize: 1.25, bodyLen: 1.2, size: 1.22, muzzleLen: 1.2, muzzleW: 1.35, earSet: 'high', chest: 1.1, eyeShape: 'oval', eyeTilt: .18, eyeLid: .12, eyeSpace: 1.06 }, coat: { pattern: 'classic', base: '#8a6a4f', dark: '#3e2d22', whiteLevel: .2 } },
+  { id: 'siberian', ko: '시베리안', shape: { fur: 'long', ruff: 1, tailFluff: 1, cheek: .5, size: 1.1, earRound: .3, chest: 1.1, eyeShape: 'oval', eyeTilt: .12 }, coat: { pattern: 'mackerel', base: '#c9c4bb', dark: '#5d5850', eye: '#9db24a' } },
+  { id: 'bengal', ko: '벵갈', shape: { bodyBulk: .95, eyeShape: 'oval', legLen: 1.08, pouch: .5, bodyLen: 1.1, chest: 1.1, tailThick: 1.1, eyeTilt: .1, eyeLid: .22, eyeLiner: 1 }, coat: { pattern: 'spotted', base: '#d9a95c', dark: '#4a3322', eye: '#7cae3d' } },
+  { id: 'egyptian_mau', ko: '이집션 마우', shape: { bodyBulk: .9, legLen: 1.1, eyeSize: 1.15, pouch: 1, rumpHigh: .2, wedge: .25, earSet: 'high', eyeShape: 'round', eyeTilt: .14, eyeLiner: 1 }, coat: { pattern: 'spotted', base: '#d4d1c8', dark: '#3c3a36', eye: '#9cc04a', seed: 4 } },
+  { id: 'abyssinian', ko: '아비시니안', shape: { earSize: 1.3, eyeShape: 'almond', bodyBulk: .86, legLen: 1.1, wedge: .4, earSet: 'high', earWide: 1.1, tailLen: 1.1, tailThick: .85, eyeTilt: .2, eyeLiner: 1 }, coat: { pattern: 'ticked', base: '#c98a52', dark: '#7a4a28', eye: '#b8a03a' } },
+  { id: 'somali', ko: '소말리', shape: { earSize: 1.25, fur: 'long', furAmount: .6, tailFluff: 1.2, bodyBulk: .9, wedge: .35, earSet: 'high', earWide: 1.1, eyeShape: 'almond', eyeTilt: .13, eyeLiner: 1 }, coat: { pattern: 'ticked', base: '#c47a45', dark: '#7a4a28', eye: '#b8a03a' } },
+  { id: 'savannah', ko: '사바나', shape: { ear: 'large', earSize: 1.45, legLen: 1.35, bodyBulk: .85, bodyLen: 1.1, size: 1.15, tailLen: .9, neckLen: 1.3, earSet: 'high', wedge: .3, tailThick: .9, eyeShape: 'oval', eyeTilt: .1, eyeLid: .25 }, coat: { pattern: 'spotted', base: '#d8b46f', dark: '#2c241c', eye: '#c9a227', seed: 7 } },
+  { id: 'oriental', ko: '오리엔탈', shape: { ear: 'large', earSize: 1.35, bodyBulk: .78, legLen: 1.25, headW: .9, muzzleLen: 1.3, eyeShape: 'almond', tailLen: 1.4, wedge: 1, earSet: 'low', earWide: 1.05, bodyLen: 1.2, tailThick: .6, neckLen: 1.2, tuck: .45, eyeTilt: .4, eyeSpace: .94, eyeLid: .08 }, coat: { pattern: 'solid', base: '#3a3432', eye: '#7cae3d', lightMuzzle: false } },
+  { id: 'sphynx', ko: '스핑크스', shape: { ear: 'large', earSize: 1.55, fur: 'none', wrinkles: 1, bodyBulk: .9, eyeShape: 'lemon', tailLen: 1.1, potBelly: 1, earSet: 'low', earWide: 1.15, wedge: .3, tailThick: .6, chest: 1.1, eyeTilt: .28 }, coat: { pattern: 'calico', base: '#efc4b6', second: '#b5a2a4', white: '#f6d6cc', whiteLevel: 0, eye: '#9cb84a', innerEar: '#eba8a0', seed: 3 } },
+  { id: 'turkish_angora', ko: '터키시 앙고라', shape: { fur: 'long', furAmount: .6, tailFluff: 1.2, earSize: 1.15, bodyBulk: .88, legLen: 1.08, wedge: .35, earSet: 'high', neckLen: 1.15, tailThick: .9, eyeShape: 'almond', eyeTilt: .18 }, coat: { pattern: 'solid', base: '#fbf8f2', eye: '#7fb6ea' } },
+  { id: 'turkish_van', ko: '터키시 반', shape: { fur: 'long', furAmount: .4, tailFluff: .8, size: 1.08, bodyLen: 1.1, chest: 1.1, eyeShape: 'oval', eyeTilt: .12 }, coat: { pattern: 'van', base: '#d9853c' } },
+  { id: 'exotic_shorthair', ko: '엑조틱 숏헤어', shape: { faceFlat: 1, ear: 'small', cheek: 1, eyeSize: 1.2, bodyBulk: 1.12, legLen: .85, earSet: 'low', earRound: .8, bodyLen: .82, neckLen: .75, tailThick: 1.2, tailLen: .85, eyeShape: 'round', eyeSpace: 1.1 }, coat: { pattern: 'classic', base: '#e2a35e', dark: '#b06a2d', eye: '#d7902f' } },
+  { id: 'american_curl', ko: '아메리칸 컬', shape: { ear: 'curl', earSize: 1.15, eyeShape: 'oval', eyeTilt: .14 }, coat: { pattern: 'bicolor', base: '#55504c' } },
+  { id: 'devon_rex', ko: '데본 렉스', shape: { ear: 'large', earSize: 1.6, eyeSize: 1.25, headW: 1.0, bodyBulk: .82, fur: 'rex', legLen: 1.1, earSet: 'low', earWide: 1.2, wedge: .4, tailThick: .7, eyeShape: 'oval', eyeTilt: .12, eyeSpace: 1.08 }, coat: { pattern: 'solid', base: '#cdbfae', eye: '#9cb84a' } },
+  { id: 'cornish_rex', ko: '코니시 렉스', shape: { ear: 'large', earSize: 1.45, bodyBulk: .78, legLen: 1.25, fur: 'rex', headW: .9, muzzleLen: 1.2, tailLen: 1.25, backArch: 1, tuck: 1, wedge: .5, tailThick: .55, earSet: 'high', chest: 1.15, eyeShape: 'oval', eyeTilt: .16 }, coat: { pattern: 'bicolor', base: '#7d6a62', whiteLevel: .5 } },
+  { id: 'selkirk_rex', ko: '셀커크 렉스', shape: { fur: 'curly', furAmount: 1.1, cheek: .8, bodyBulk: 1.1, ear: 'small', eyeSize: 1.15, tailFluff: .6, earRound: .5, bodyLen: .9, tailThick: 1.2, eyeShape: 'round' }, coat: { pattern: 'calico', base: '#3b3735', second: '#d98a43', whiteLevel: .5, seed: 6 } },
+  { id: 'laperm', ko: '라팜', shape: { fur: 'curly', furAmount: .8, earSize: 1.15, bodyBulk: .9, tailFluff: .5, wedge: .3, earSet: 'high', eyeShape: 'almond', eyeTilt: .16 }, coat: { pattern: 'tortie', base: '#3a2e29', second: '#c4773a', seed: 2 } },
+  { id: 'manx', ko: '맹크스 (꼬리 없음)', shape: { tail: 'none', bodyBulk: 1.08, bodyLen: .85, legLen: 1.0, rumpHigh: .3, earRound: .4, eyeShape: 'round', eyeTilt: .04 }, coat: { pattern: 'mackerel', base: '#bfa486', dark: '#6e5640' } },
+  { id: 'japanese_bobtail', ko: '재패니즈 밥테일', shape: { tail: 'bob', earSize: 1.15, bodyBulk: .9, legLen: 1.15, headTri: 1, earSet: 'high', rumpHigh: .1, eyeShape: 'oval', eyeTilt: .3 }, coat: { pattern: 'calico', base: '#2f2c2c', second: '#df8d3d', whiteLevel: .6, seed: 9 } },
+  { id: 'bombay', ko: '봄베이', shape: { eyeSize: 1.2, bodyBulk: 1.0, bodyLen: .95, earRound: .3, chest: 1.1, eyeShape: 'round' }, coat: { pattern: 'solid', base: '#232125', eye: '#d9a52c', lightMuzzle: false, nose: '#2d2a2e' } },
 ];
 
 export const KOREAN_COATS = [
